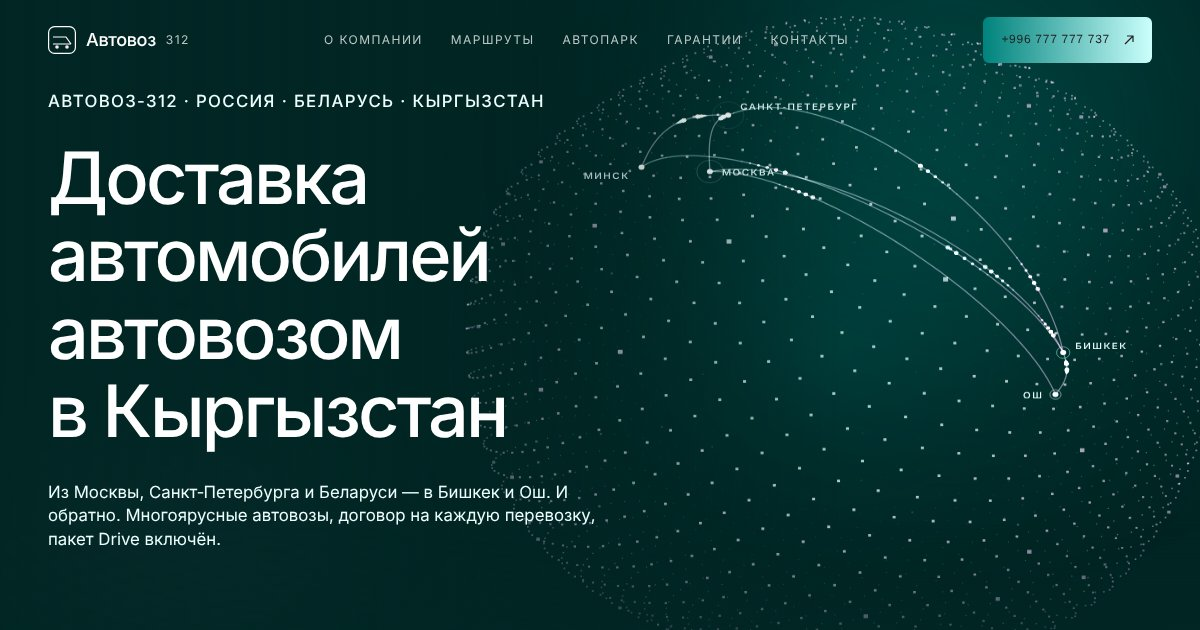
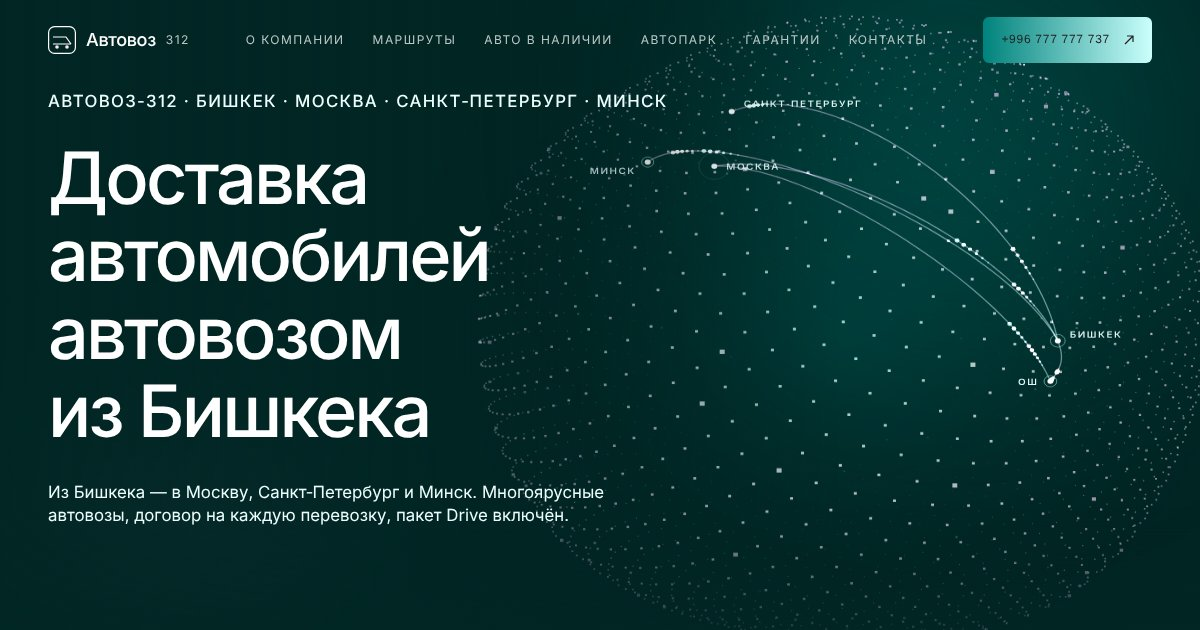
Автовоз-312: направления из Бишкека в Москву, Санкт-Петербург и Минск
Убраны «обратно» и «в обе стороны»; карточки маршрутов, глобус, схема,
бегущая строка, подвал, мета-описание и картинка-превью — из Бишкека.

Claude-Session: https://claude.ai/code/session_01Lxu3jM29tMp7oU8YcnpjJD

diff --git a/avtovoz/index.html b/avtovoz/index.html
@@ -4,14 +4,14 @@
 <meta charset="utf-8">
 <meta name="viewport" content="width=device-width, initial-scale=1">
 <title>Автовоз-312 — перевозка автомобилей</title>
-<meta name="description" content="Автовоз-312 — доставка автомобилей автовозами из Москвы, Санкт-Петербурга и Беларуси в Кыргызстан (Бишкек, Ош) и обратно. Более 10 лет на рынке.">
+<meta name="description" content="Автовоз-312 — доставка автомобилей автовозами из Бишкека в Москву, Санкт-Петербург и Минск. Более 10 лет на рынке.">
 <meta name="theme-color" content="#012624">
 <link rel="canonical" href="https://avtovoz312.ru/">
 <meta property="og:type" content="website">
 <meta property="og:locale" content="ru_RU">
 <meta property="og:site_name" content="Автовоз-312">
 <meta property="og:title" content="Автовоз-312 — доставка автомобилей автовозом">
-<meta property="og:description" content="Москва, Санкт-Петербург, Минск → Бишкек, Ош, Манас и обратно. Договор, фото и видео фиксация, пакет Drive включён. +996 777 777 737">
+<meta property="og:description" content="Бишкек → Москва, Санкт-Петербург, Минск. Договор, фото и видео фиксация, пакет Drive включён. +996 777 777 737">
 <meta property="og:url" content="https://avtovoz312.ru/">
 <meta property="og:image" content="https://avtovoz312.ru/og.jpg">
 <meta property="og:image:width" content="1200">
@@ -416,9 +416,9 @@ footer{background:var(--color-liquid-deep);margin-top:clamp(96px,12vw,var(--spac
   <div class="hero__veil"></div>
   <div class="wrap" style="width:100%">
     <div class="hero__stack">
-      <span class="label label--lg rv">Автовоз-312 · Россия · Беларусь · Кыргызстан</span>
-      <h1 class="h-hero split" data-split>Доставка автомобилей автовозом в&nbsp;Кыргызстан</h1>
-      <p class="lead rv" data-d="2">Из Москвы, Санкт‑Петербурга и Беларуси — в Бишкек и Ош. И обратно. Многоярусные автовозы, договор на каждую перевозку, пакет Drive включён.</p>
+      <span class="label label--lg rv">Автовоз-312 · Бишкек · Москва · Санкт‑Петербург · Минск</span>
+      <h1 class="h-hero split" data-split>Доставка автомобилей автовозом из&nbsp;Бишкека</h1>
+      <p class="lead rv" data-d="2">Из Бишкека — в Москву, Санкт‑Петербург и Минск. Многоярусные автовозы, договор на каждую перевозку, пакет Drive включён.</p>
       <div class="hero__btns rv" data-d="3">
         <a href="#contact" class="btn">Рассчитать перевозку <svg width="12" height="12"><use href="#arr"/></svg></a>
         <a href="#routes" class="btn btn--ghost">Маршруты</a>
@@ -429,7 +429,7 @@ footer{background:var(--color-liquid-deep);margin-top:clamp(96px,12vw,var(--spac
     <div class="wrap">
       <div class="scroll-cue label label--xs"><i></i>Листайте вниз</div>
       <div class="coords label label--xs">
-        <div>Москва → Бишкек</div>
+        <div>Бишкек → Москва</div>
         <div>В пути <span id="kmVal">0000</span> / 3 700 км</div>
       </div>
     </div>
@@ -464,7 +464,7 @@ footer{background:var(--color-liquid-deep);margin-top:clamp(96px,12vw,var(--spac
       <div class="stat rv" data-d="1">
         <div class="stat__num" data-count="3">0</div>
         <div class="stat__lbl">Страны в маршрутной сети</div>
-        <p class="stat__sub">Россия, Беларусь, Кыргызстан — в обе стороны.</p>
+        <p class="stat__sub">Кыргызстан, Россия, Беларусь.</p>
       </div>
       <div class="stat rv" data-d="2">
         <div class="stat__num" data-count="100" data-suffix="%">0</div>
@@ -512,48 +512,40 @@ footer{background:var(--color-liquid-deep);margin-top:clamp(96px,12vw,var(--spac
       <div class="rows">
         <a href="#contact" class="row rv">
           <div class="row__top">
-            <h3 class="h-md">Москва и Санкт‑Петербург → Кыргызстан</h3>
+            <h3 class="h-md">Бишкек → Москва</h3>
             <span class="arrow-btn" aria-hidden="true"><svg width="10" height="10"><use href="#arr"/></svg></span>
           </div>
-          <p>Доставка автомобилей из Москвы и Санкт‑Петербурга в Бишкек и Ош.</p>
-          <span class="label label--xs">Москва · Санкт‑Петербург → Бишкек · Ош</span>
+          <p>Доставка автомобилей из Бишкека в Москву на многоярусном автовозе.</p>
+          <span class="label label--xs">Кыргызстан → Россия</span>
         </a>
         <a href="#contact" class="row rv" data-d="1">
           <div class="row__top">
-            <h3 class="h-md">Беларусь → Кыргызстан</h3>
+            <h3 class="h-md">Бишкек → Санкт‑Петербург</h3>
             <span class="arrow-btn" aria-hidden="true"><svg width="10" height="10"><use href="#arr"/></svg></span>
           </div>
-          <p>Перевозка автомобилей из Беларуси в Кыргызстан на многоярусном автовозе.</p>
-          <span class="label label--xs">Беларусь → Бишкек · Ош</span>
+          <p>Доставка автомобилей из Бишкека в Санкт‑Петербург на многоярусном автовозе.</p>
+          <span class="label label--xs">Кыргызстан → Россия</span>
         </a>
         <a href="#contact" class="row rv" data-d="2">
+          <div class="row__top">
+            <h3 class="h-md">Бишкек → Минск</h3>
+            <span class="arrow-btn" aria-hidden="true"><svg width="10" height="10"><use href="#arr"/></svg></span>
+          </div>
+          <p>Доставка автомобилей из Бишкека в Минск на многоярусном автовозе.</p>
+          <span class="label label--xs">Кыргызстан → Беларусь</span>
+        </a>
+        <a href="#contact" class="row rv" data-d="3">
           <div class="row__top">
             <h3 class="h-md">Бишкек → Ош → Манас</h3>
             <span class="arrow-btn" aria-hidden="true"><svg width="10" height="10"><use href="#arr"/></svg></span>
           </div>
-          <p>Перевозка автомобилей автовозом по Кыргызстану: между Бишкеком, Ошем и Манасом.</p>
-          <span class="label label--xs">Бишкек · Ош · Манас — в обе стороны</span>
-        </a>
-        <a href="#contact" class="row rv" data-d="3">
-          <div class="row__top">
-            <h3 class="h-md">Москва → Санкт‑Петербург → Минск</h3>
-            <span class="arrow-btn" aria-hidden="true"><svg width="10" height="10"><use href="#arr"/></svg></span>
-          </div>
-          <p>Доставка автомобилей между Москвой, Санкт‑Петербургом и Минском.</p>
-          <span class="label label--xs">Москва · Санкт‑Петербург · Минск — в обе стороны</span>
-        </a>
-        <a href="#contact" class="row rv" data-d="4">
-          <div class="row__top">
-            <h3 class="h-md">Обратные направления</h3>
-            <span class="arrow-btn" aria-hidden="true"><svg width="10" height="10"><use href="#arr"/></svg></span>
-          </div>
-          <p>Из Кыргызстана в Россию и Беларусь, а также по ближнему зарубежью — уточняйте по телефону.</p>
-          <span class="label label--xs">Бишкек · Ош → Москва · Санкт‑Петербург · Беларусь</span>
+          <p>Перевозка автомобилей автовозом по Кыргызстану: Бишкек, Ош и Манас.</p>
+          <span class="label label--xs">По Кыргызстану</span>
         </a>
       </div>
       <div class="map rv" data-d="1" id="map">
         <span class="label label--xs">Схема маршрутов</span>
-        <span class="label label--xs">В обе стороны</span>
+        <span class="label label--xs">Из Бишкека</span>
         <svg viewBox="0 0 500 560" preserveAspectRatio="xMidYMid meet" aria-hidden="true" id="mapSvg"></svg>
       </div>
     </div>
@@ -606,8 +598,8 @@ footer{background:var(--color-liquid-deep);margin-top:clamp(96px,12vw,var(--spac
 <!-- KINETIC -->
 <section class="kinetic" aria-label="Москва, Бишкек, Ош">
   <canvas id="orb2" aria-hidden="true"></canvas>
-  <div class="kin-line" data-kin="-1">Москва&nbsp;·&nbsp;Бишкек&nbsp;·&nbsp;Ош&nbsp;·&nbsp;Москва</div>
-  <div class="kin-line ghost" data-kin="1">Минск&nbsp;·&nbsp;Санкт‑Петербург&nbsp;·&nbsp;Манас&nbsp;·&nbsp;Минск</div>
+  <div class="kin-line" data-kin="-1">Бишкек&nbsp;·&nbsp;Москва&nbsp;·&nbsp;Петербург&nbsp;·&nbsp;Минск</div>
+  <div class="kin-line ghost" data-kin="1">Москва&nbsp;·&nbsp;Петербург&nbsp;·&nbsp;Минск&nbsp;·&nbsp;Бишкек</div>
   <div class="wrap kin-cap">
     <span class="label rv">03 — Подход</span>
     <p class="rv" data-d="1">Особое отношение к каждому клиенту и полное сопровождение от погрузки до выдачи автомобиля — на всём маршруте.</p>
@@ -729,10 +721,10 @@ footer{background:var(--color-liquid-deep);margin-top:clamp(96px,12vw,var(--spac
     <div class="film__shade"></div>
     <div class="film__marquee" aria-hidden="true">
       <div class="mq"><span>Быстро · Недорого · Пакет Drive включён ·</span><span>Быстро · Недорого · Пакет Drive включён ·</span></div>
-      <div class="mq rev"><span>Москва · Бишкек · Ош · Беларусь · Санкт‑Петербург ·</span><span>Москва · Бишкек · Ош · Беларусь · Санкт‑Петербург ·</span></div>
+      <div class="mq rev"><span>Бишкек · Москва · Санкт‑Петербург · Минск ·</span><span>Бишкек · Москва · Санкт‑Петербург · Минск ·</span></div>
     </div>
     <div class="film__content film__content--center">
-      <span class="label label--lg">Россия · Беларусь · Кыргызстан</span>
+      <span class="label label--lg">Кыргызстан · Россия · Беларусь</span>
       <h2 class="h-hero" data-chars>Доставим бережно и в срок</h2>
       <a href="#contact" class="btn">Рассчитать перевозку <svg width="12" height="12"><use href="#arr"/></svg></a>
     </div>
@@ -767,7 +759,7 @@ footer{background:var(--color-liquid-deep);margin-top:clamp(96px,12vw,var(--spac
         </a>
         <p style="margin-top:20px;max-width:360px">Перевозка автомобилей автовозами по Кыргызстану, России, Беларуси и ближнему зарубежью — более 10 лет.</p>
       </div>
-      <div><span class="label">Направления</span><ul><li>Москва → Бишкек, Ош</li><li>Санкт‑Петербург → Бишкек, Ош</li><li>Беларусь → Кыргызстан</li><li>Бишкек → Ош → Манас</li><li>Москва → Санкт‑Петербург → Минск</li><li>Обратные направления</li></ul></div>
+      <div><span class="label">Направления</span><ul><li>Бишкек → Москва</li><li>Бишкек → Санкт‑Петербург</li><li>Бишкек → Минск</li><li>Бишкек → Ош → Манас</li></ul></div>
       <div><span class="label">Разделы</span><ul><li><a href="#about">О компании</a></li><li><a href="#cars">Авто в наличии</a></li><li><a href="#fleet">Автопарк</a></li><li><a href="#guarantees">Гарантии</a></li><li><a href="#tasks">Наши задачи</a></li></ul></div>
       <div><span class="label">Контакты</span><ul><li><a href="tel:+996777777737">+996 777 777 737</a></li><li><a href="https://wa.me/996777777737" target="_blank" rel="noopener">WhatsApp</a></li><li><a href="mailto:damka-1984@mail.ru">damka-1984@mail.ru</a></li></ul></div>
     </div>
@@ -840,7 +832,7 @@ $$('.row').forEach(r => r.addEventListener('pointermove', e => {
 }));
 
 /* ticker */
-const ticks = [['Москва → Бишкек','В обе стороны'],['Санкт‑Петербург → Бишкек','В обе стороны'],['Москва → Ош','В обе стороны'],['Беларусь → Кыргызстан','В обе стороны'],['Бишкек → Ош → Манас','По Кыргызстану'],['Москва → Санкт‑Петербург → Минск','Россия · Беларусь'],['Пакет Drive','Включён'],['Договор на перевозку','Гарантия'],['Фото и видео фиксация','По желанию'],['До 8 автомобилей','За один рейс'],['MAN · DAF · VOLVO','Тягачи'],['LOHR · ROLFO BLIZZARD','Установки']];
+const ticks = [['Бишкек → Москва','Автовоз'],['Бишкек → Санкт‑Петербург','Автовоз'],['Бишкек → Минск','Автовоз'],['Бишкек → Ош → Манас','По Кыргызстану'],['Пакет Drive','Включён'],['Договор на перевозку','Гарантия'],['Фото и видео фиксация','По желанию'],['До 8 автомобилей','За один рейс'],['MAN · DAF · VOLVO','Тягачи'],['LOHR · ROLFO BLIZZARD','Установки']];
 const th = ticks.map(([a, b]) => `<div class="tick"><b>${a}</b><em>${b}</em></div>`).join('');
 $('#ticker').innerHTML = th + th;
 
@@ -873,7 +865,7 @@ function whenVisible(c, cb) { new IntersectionObserver(([e]) => cb(e.isIntersect
     bsk: { n: 'Бишкек', p: geo(42.87, 74.59), dx: 12, dy: -4, a: 'left' },
     osh: { n: 'Ош', p: geo(40.51, 72.80), dx: -12, dy: 4, a: 'right' },
   };
-  const routes = [['msk','bsk'],['spb','bsk'],['by','bsk'],['msk','osh'],['bsk','osh'],['msk','spb'],['spb','by']].map(([a, b]) => {
+  const routes = [['bsk','msk'],['bsk','spb'],['bsk','by'],['osh','msk'],['bsk','osh']].map(([a, b]) => {
     const p = cities[a].p, q = cities[b].p;
     const dot = p[0]*q[0] + p[1]*q[1] + p[2]*q[2], w = Math.acos(Math.min(1, dot)), s = Math.sin(w);
     const pts = [];
@@ -881,7 +873,7 @@ function whenVisible(c, cb) { new IntersectionObserver(([e]) => cb(e.isIntersect
       const t = i / 64, f1 = Math.sin((1 - t) * w) / s, f2 = Math.sin(t * w) / s, h = 1 + .1 * Math.sin(Math.PI * t) * (w * 2.2);
       pts.push([(p[0]*f1 + q[0]*f2) * h, (p[1]*f1 + q[1]*f2) * h, (p[2]*f1 + q[2]*f2) * h]);
     }
-    return { pts, pulses: [{ t: Math.random(), d: 1 }, { t: Math.random(), d: -1 }] };
+    return { pts, pulses: [{ t: Math.random(), d: 1 }, { t: Math.random(), d: 1 }] };
   });
   const N = innerWidth < 700 ? 1500 : 2800, g = Math.PI * (3 - Math.sqrt(5)), cloud = [];
   for (let i = 0; i < N; i++) { const y = 1 - i / (N - 1) * 2, r = Math.sqrt(1 - y * y); cloud.push([Math.cos(g * i) * r, y, Math.sin(g * i) * r, Math.random(), Math.random() * 6.28]); }
@@ -931,7 +923,7 @@ function whenVisible(c, cb) { new IntersectionObserver(([e]) => cb(e.isIntersect
         for (let j = 0; j < 12; j++) {
           const tt = u.t - j * .008 * u.d; if (tt < 0 || tt > 1) continue;
           const q = P[Math.round(tt * 64)];
-          ctx.globalAlpha = (1 - j / 12) * .9; ctx.fillStyle = u.d > 0 ? '#fde9ff' : '#cbfffc';
+          ctx.globalAlpha = (1 - j / 12) * .9; ctx.fillStyle = r.pulses[0] === u ? '#fde9ff' : '#cbfffc';
           ctx.beginPath(); ctx.arc(q[0], q[1], (2.4 - j * .15), 0, 7); ctx.fill();
         }
       }
@@ -1000,7 +992,7 @@ function whenVisible(c, cb) { new IntersectionObserver(([e]) => cb(e.isIntersect
     tr1: [270, 300, 5, 0, 'Транзит', 'r'], tr2: [340, 370, 5, 0, '', ''],
     bsk: [400, 430, 16, 1, 'Бишкек', 'r'], osh: [330, 500, 10, 1, 'Ош', 'l'],
   };
-  const edges = [['spb','msk'],['msk','tr1'],['by','tr1'],['by','msk'],['tr1','tr2'],['tr2','bsk'],['tr2','osh'],['bsk','osh'],['spb','by'],['osh','mns'],['bsk','mns']];
+  const edges = [['bsk','tr2'],['osh','tr2'],['tr2','tr1'],['tr1','msk'],['tr1','by'],['msk','spb'],['bsk','osh'],['bsk','mns'],['osh','mns']];
   edges.forEach(([a, b], i) => {
     const [x1, y1] = nodes[a], [x2, y2] = nodes[b];
     const l = el('line', { x1, y1, x2, y2, class: 'm-line' }, svg);
@@ -1014,11 +1006,11 @@ function whenVisible(c, cb) { new IntersectionObserver(([e]) => cb(e.isIntersect
       tx.textContent = name.toUpperCase();
     }
   });
-  const pulses = Array.from({ length: 8 }, (_, i) => ({ el: el('circle', { r: 2.6, class: 'm-pulse' }, svg), e: i % edges.length, t: Math.random(), sp: .004 + Math.random() * .005, d: i % 2 ? 1 : -1 }));
+  const pulses = Array.from({ length: 8 }, (_, i) => ({ el: el('circle', { r: 2.6, class: 'm-pulse' }, svg), e: i % edges.length, t: Math.random(), sp: .004 + Math.random() * .005, d: 1 }));
   (function loop() {
     pulses.forEach(p => {
       p.t += p.sp;
-      if (p.t >= 1) { p.t = 0; p.e = Math.floor(Math.random() * edges.length); p.d = Math.random() > .5 ? 1 : -1; }
+      if (p.t >= 1) { p.t = 0; p.e = Math.floor(Math.random() * edges.length); }
       let [a, b] = edges[p.e]; if (p.d < 0) [a, b] = [b, a];
       const [x1, y1] = nodes[a], [x2, y2] = nodes[b];
       p.el.setAttribute('cx', x1 + (x2 - x1) * p.t); p.el.setAttribute('cy', y1 + (y2 - y1) * p.t);
